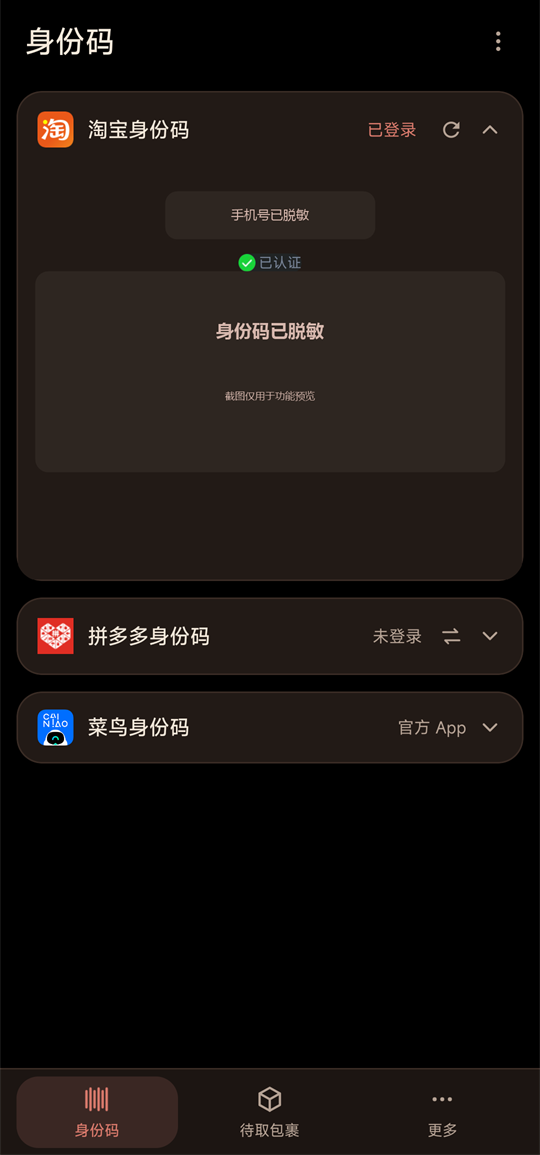
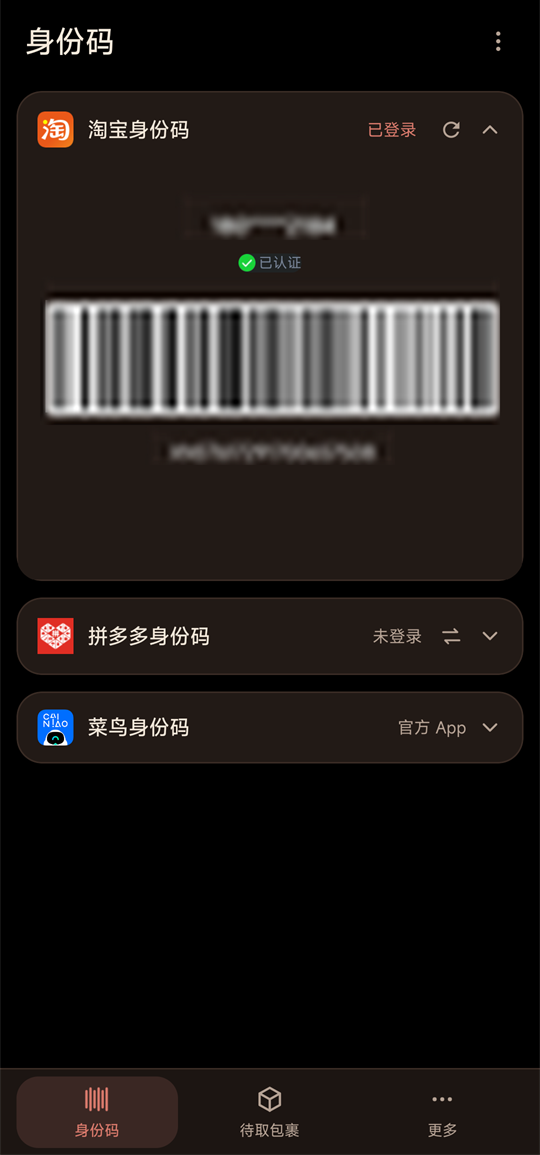
README 预览截图改用模糊脱敏

Changed region(s): [[0.0593, 0.2494, 0.9481, 0.4052], [0.3852, 0.1558, 0.6222, 0.2182]]

diff --git a/README.md b/README.md
@@ -17,12 +17,12 @@
 ## 界面预览
 
 <p align="center">
-  <img src="screenshots/identity.png" width="240" alt="身份码页面（已脱敏）">
+  <img src="screenshots/identity.png" width="240" alt="身份码页面">
   <img src="screenshots/more.png" width="240" alt="更多页面">
   <img src="screenshots/about.png" width="240" alt="关于页面">
 </p>
 
-<p align="center"><sub>身份码（截图已脱敏） · 更多 · 关于</sub></p>
+<p align="center"><sub>身份码 · 更多 · 关于</sub></p>
 
 ## 支持平台
 
